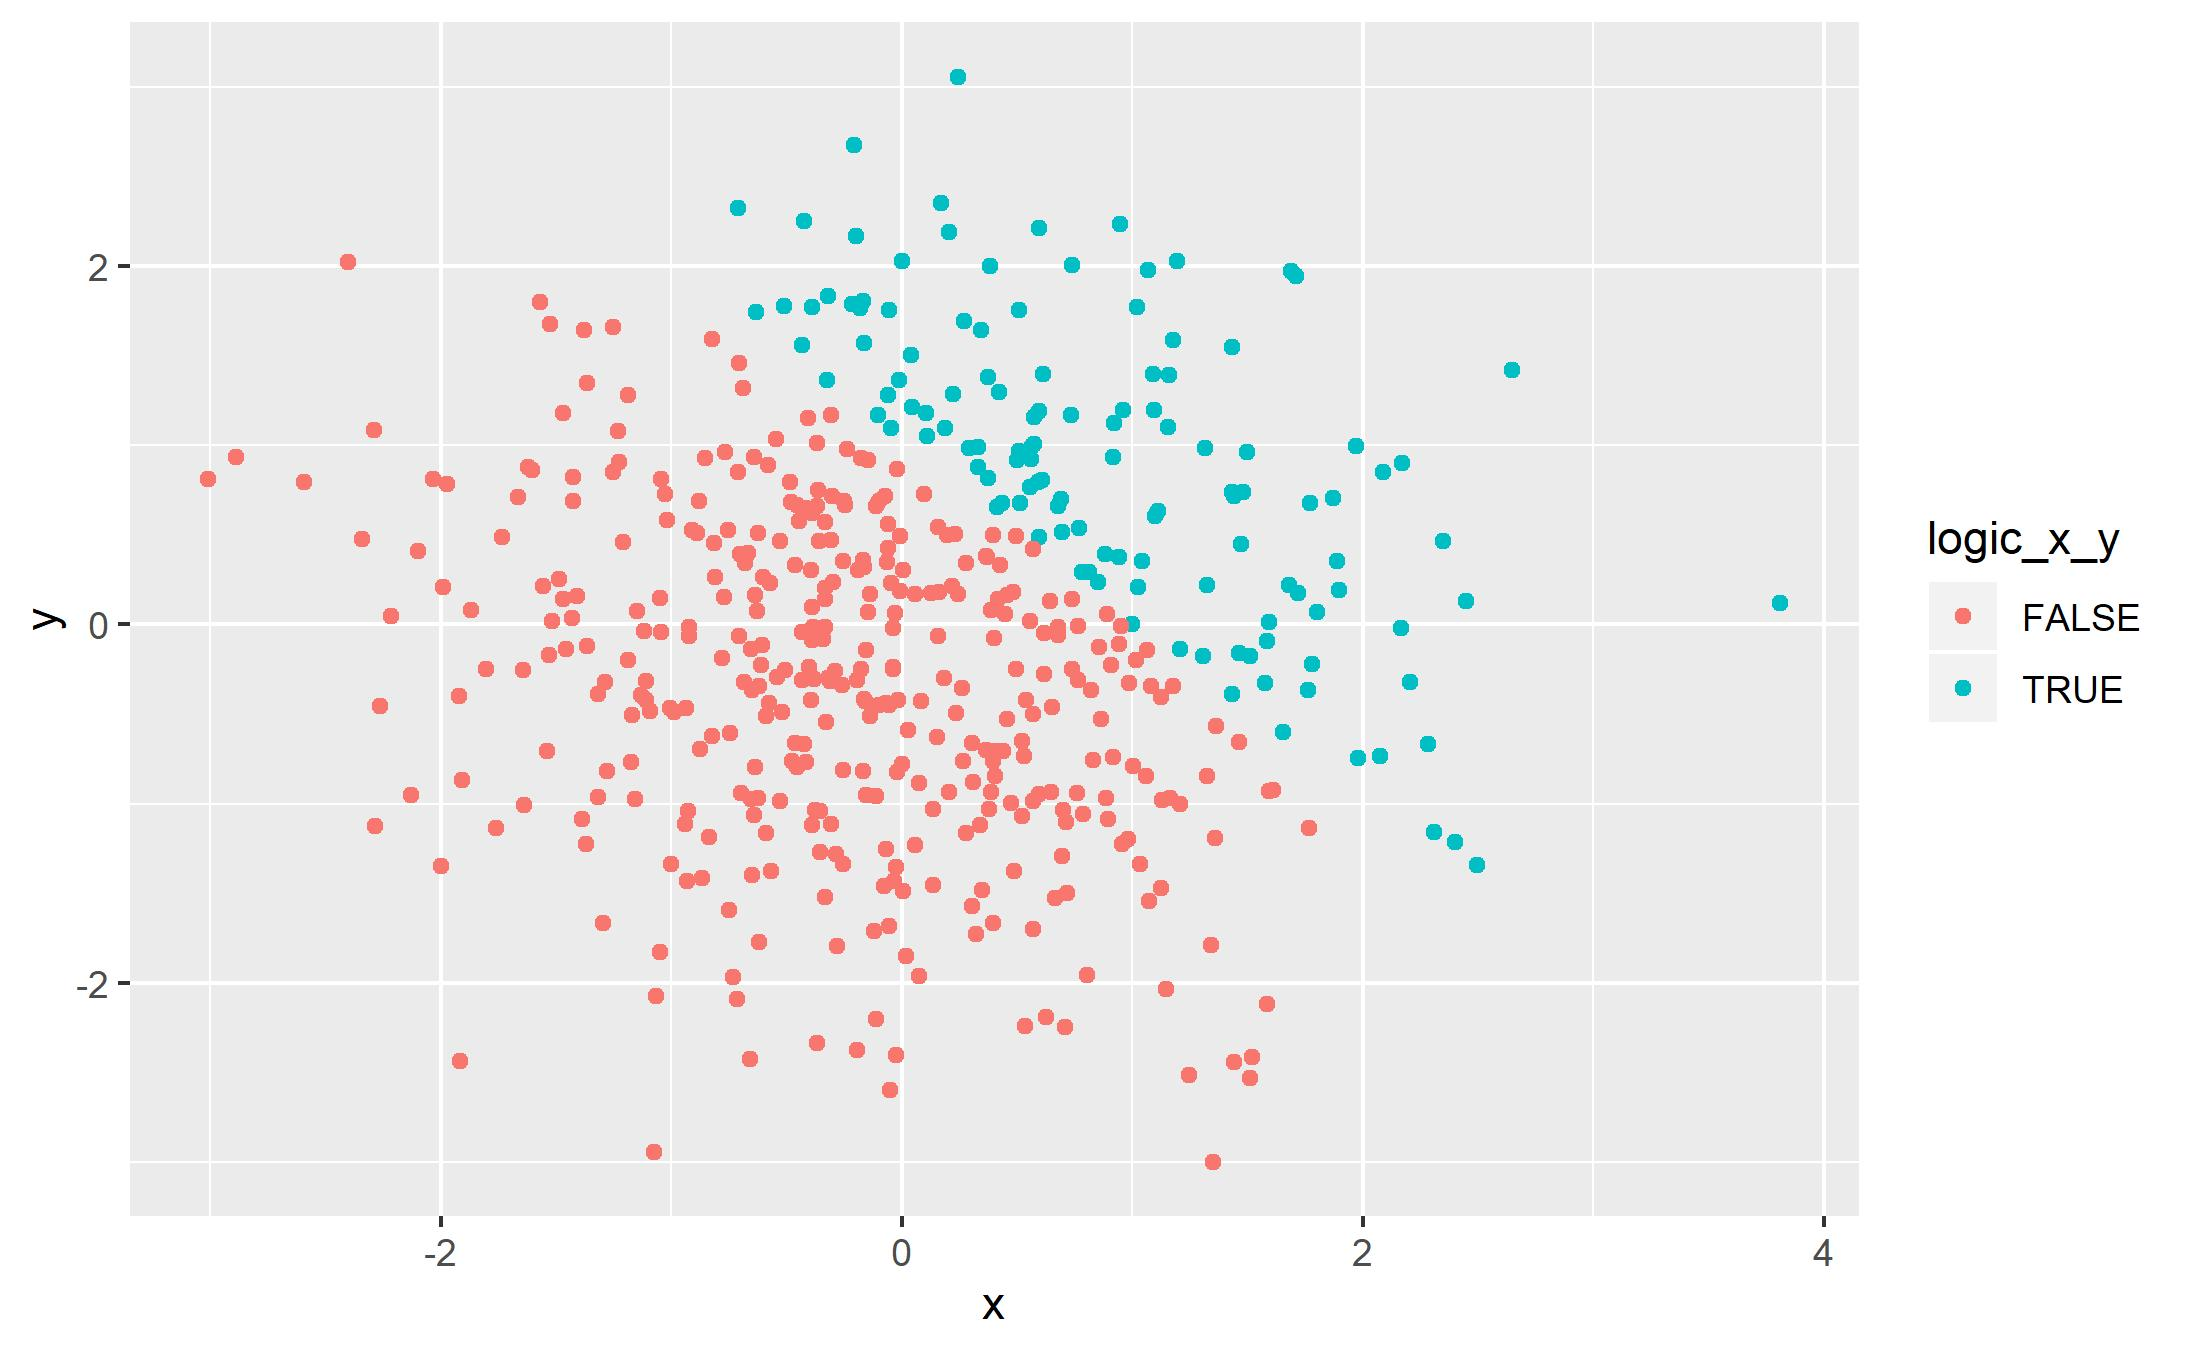
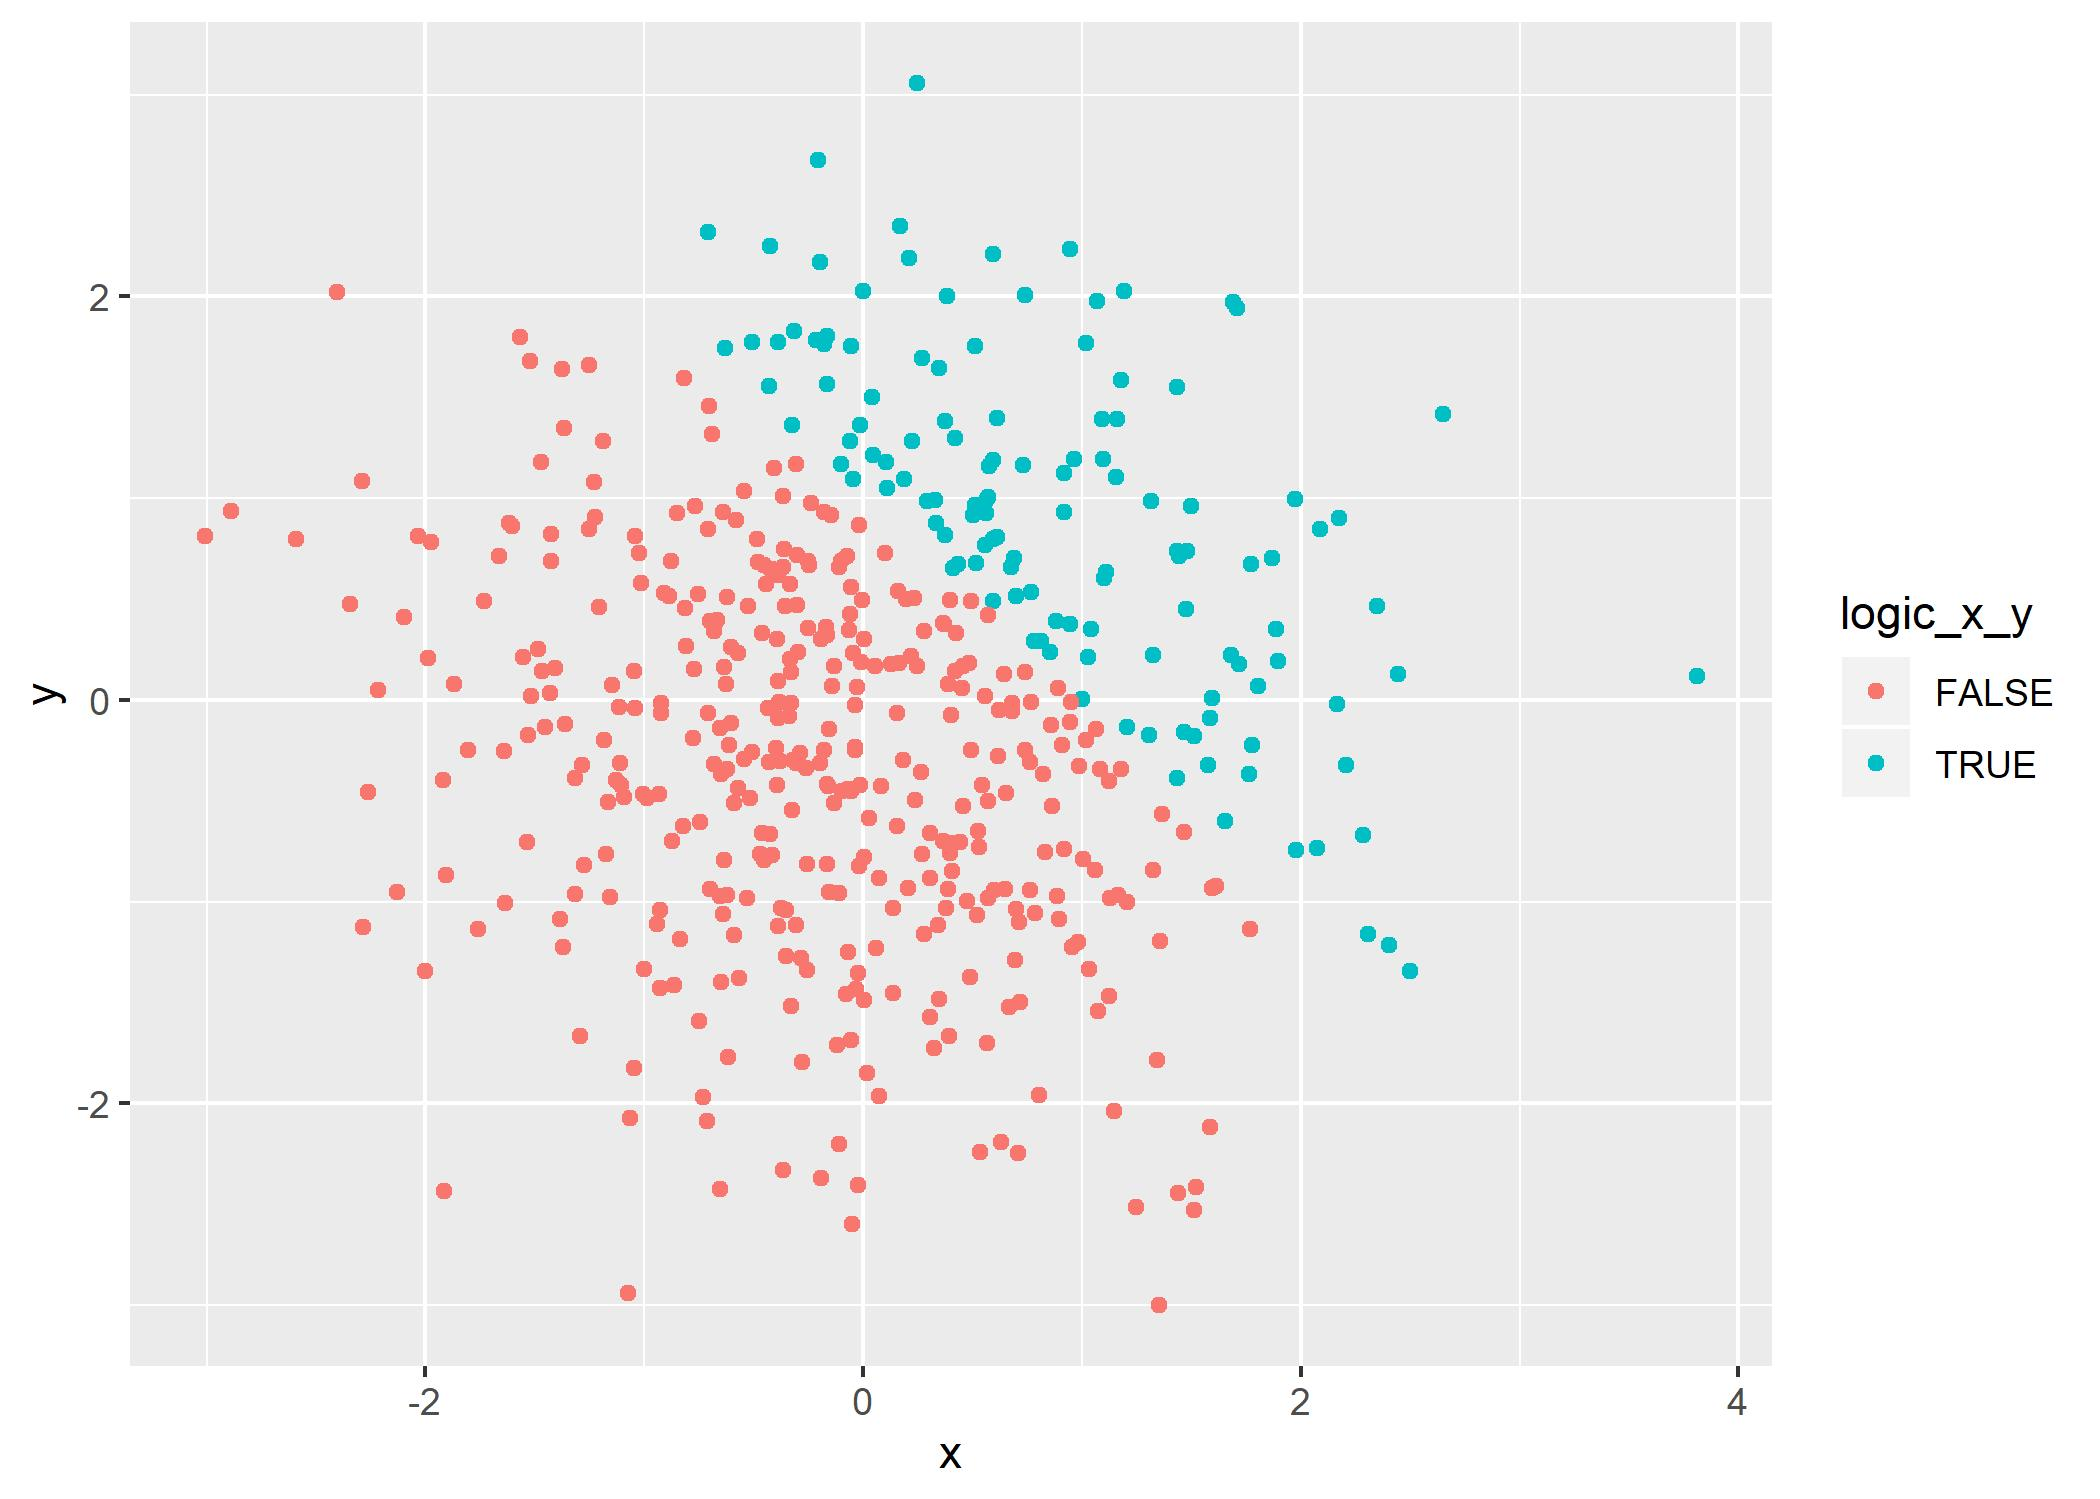
end of coding. Might do some style edits later

diff --git a/p8105_hw1_nj2208.md b/p8105_hw1_nj2208.md
@@ -122,4 +122,37 @@ prob2_df=tibble(
 
 The data frame from problem 2 has a size of 500 rows and 5 columns.
 
-The x variable has a mean of 0.0226441, and median of 0.0226441
+The x variable has a mean of 0.0226441, median of 0.0226441, and a
+standard deviation of 1.0119283.
+
+X+Y was greated than 1 25.2percent.
+
+``` r
+ggplot(
+  prob2_df, 
+  aes(x = x, y = y,color=logic_x_y)) + geom_point()
+```
+
+![](p8105_hw1_nj2208_files/figure-gfm/unnamed-chunk-3-1.png)<!-- -->
+
+``` r
+ggsave("firstggplot.jpeg")
+```
+
+    ## Saving 7 x 5 in image
+
+``` r
+ggplot(
+  prob2_df, 
+  aes(x = x, y = y,color=num_logic)) + geom_point()
+```
+
+![](p8105_hw1_nj2208_files/figure-gfm/unnamed-chunk-3-2.png)<!-- -->
+
+``` r
+ggplot(
+  prob2_df, 
+  aes(x = x, y = y,color=fac_vec)) + geom_point()
+```
+
+![](p8105_hw1_nj2208_files/figure-gfm/unnamed-chunk-3-3.png)<!-- -->
